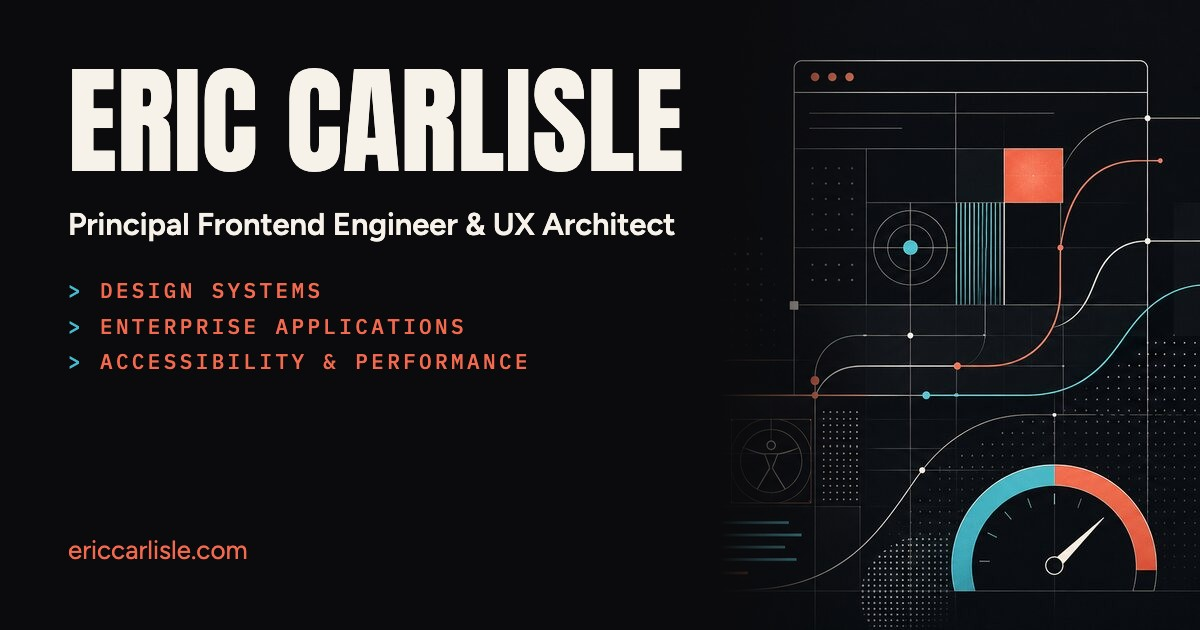
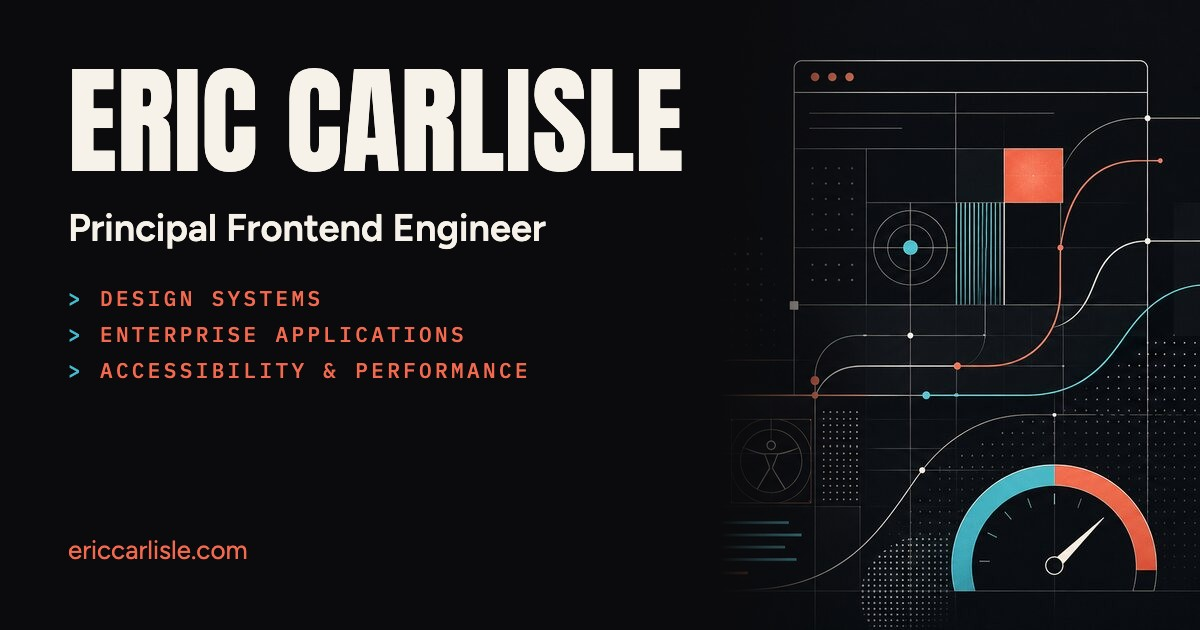
Align professional title to "Principal Frontend Engineer"
Replace "UX Architect" / "Full-Stack" titles with "Principal Frontend Engineer"
in site metadata, homepage, About, Portfolio, structured data (AUTHOR_JOB_TITLE),
llms.txt, docs/author_profile.md, and the homepage social image.

Also:
- llms.txt: replace three case-study links that had no route with the five real
  /portfolio/ section anchors, and add the Speaking page.
- About: "over a decade" -> "more than 20 years".

Changed region(s): [[0.0617, 0.4222, 0.4625, 0.6032], [0.0617, 0.3317, 0.5858, 0.3921]]

diff --git a/src/consts.ts b/src/consts.ts
@@ -1,6 +1,6 @@
 export const SITE_TITLE = 'Eric Carlisle';
 export const SITE_DESCRIPTION =
-  'Principal Frontend Engineer & UX Architect. Technical deep-dives on web performance, accessibility, Astro, React, and modern CSS architecture.';
+  'Principal Frontend Engineer. Technical deep-dives on web performance, accessibility, Astro, React, and modern CSS architecture.';
 
 export const AUTHOR_NAME = 'Eric Carlisle';
 export const AUTHOR_WEBSITE = 'https://ericcarlisle.com';
@@ -9,7 +9,7 @@ export const AUTHOR_GITHUB = 'https://github.com/ecarlisle';
 export const AUTHOR_BLUESKY = 'https://bsky.app/profile/ericcarlisle.bsky.social';
 export const AUTHOR_MASTODON = 'https://fosstodon.org/@ericcarlisle';
 export const AUTHOR_AVATAR = '/eric-carlisle.webp';
-export const AUTHOR_JOB_TITLE = 'Principal Frontend Engineer & UX Architect';
+export const AUTHOR_JOB_TITLE = 'Principal Frontend Engineer';
 export const AUTHOR_ORG = 'Eric Carlisle Consulting';
 export const GA_MEASUREMENT_ID = 'G-70E1BWCFJ3';
 export const WEBMENTION_IO_DOMAIN = 'ericcarlisle.com';

diff --git a/docs/author_profile.md b/docs/author_profile.md
@@ -7,7 +7,7 @@ This document is the authoritative source of truth for the author's identity, pe
 ## Identity & Biography
 
 * **Full Name**: Eric Carlisle
-* **Job Title**: Principal Full-Stack Engineer & UX Architect
+* **Job Title**: Principal Frontend Engineer
 * **Organization**: Eric Carlisle Consulting
 * **Primary Domain**: https://ericcarlisle.com
 * **Avatar Image Asset**: https://ericcarlisle.com/eric-carlisle.webp
